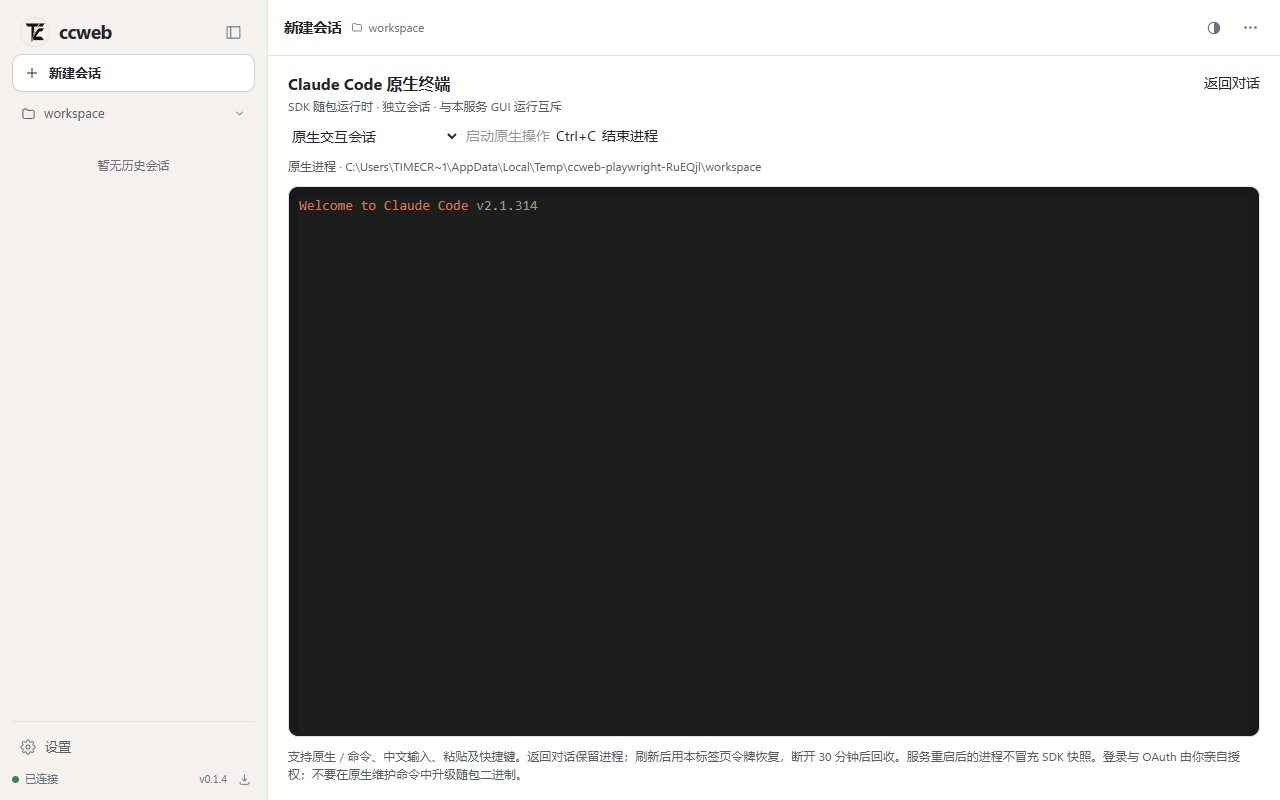
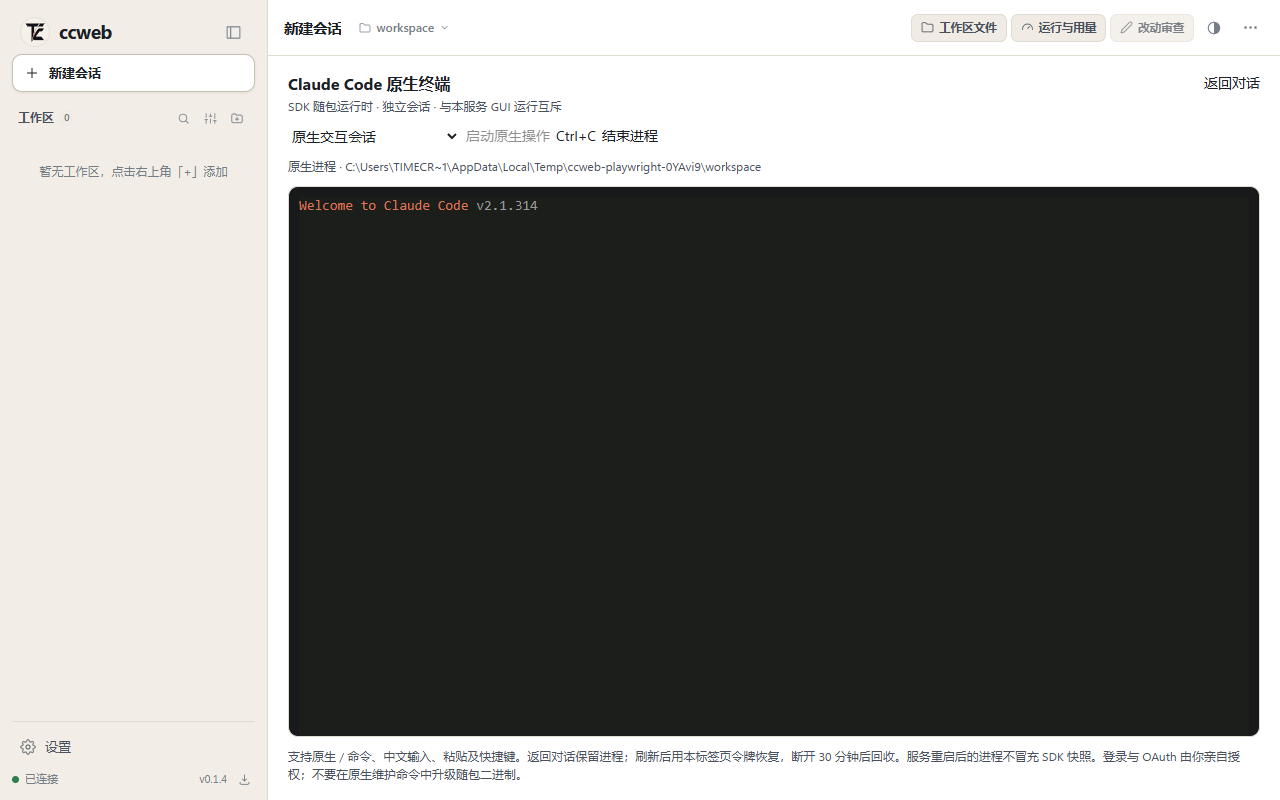
feat(ux): 优化会话滚轮防强行吸底与前端静态资源分包 / refine scroll follow behavior and bundle chunking

diff --git a/apps/web/src/components/MessageStream.tsx b/apps/web/src/components/MessageStream.tsx
@@ -36,7 +36,7 @@ export function parseHeadings(markdown: string): HeadingItem[] {
 }
 
 function StreamFooterSpacer() {
-  return <div className="stream-footer-spacer" style={{ height: 36, pointerEvents: 'none' }} aria-hidden="true" />
+  return <div className="stream-footer-spacer" style={{ height: 56, pointerEvents: 'none' }} aria-hidden="true" />
 }
 
 interface StreamProps {
@@ -58,6 +58,7 @@ export default function MessageStream({ onRegenerate, onForkFromMessage }: Strea
   const historyFocus = useStore((s) => s.historyFocus)
   const virtuoso = useRef<VirtuosoHandle>(null)
   const [atBottom, setAtBottom] = useState(true)
+  const userScrolledUp = useRef(false)
   const lastUserId = useRef<string | undefined>(undefined)
   const range = useRef({ startIndex: 0, endIndex: 0 })
   useLocale()
@@ -73,6 +74,7 @@ export default function MessageStream({ onRegenerate, onForkFromMessage }: Strea
     if (jumpedVersion.current === historyVersion) return
     jumpedVersion.current = historyVersion
     const jump = () => {
+      userScrolledUp.current = false
       setAtBottom(true)
       virtuoso.current?.scrollToIndex({ index: entryCount.current - 1, align: 'end', behavior: 'auto' })
     }
@@ -83,22 +85,25 @@ export default function MessageStream({ onRegenerate, onForkFromMessage }: Strea
   useEffect(() => {
     if (!newest || newest === lastUserId.current) return
     lastUserId.current = newest
+    userScrolledUp.current = false
     setAtBottom(true)
     const frame = requestAnimationFrame(() => virtuoso.current?.scrollToIndex({ index: entryCount.current - 1, align: 'end', behavior: 'auto' }))
     return () => cancelAnimationFrame(frame)
   }, [newest])
 
-  useEffect(() => {
-    if (entries.length === 0) return
-    if (atBottom) virtuoso.current?.scrollToIndex({ index: entries.length - 1, align: 'end', behavior: 'auto' })
-  }, [entries, busy, atBottom])
+  const handleWheel = (e: React.WheelEvent) => {
+    if (e.deltaY < 0) {
+      userScrolledUp.current = true
+      setAtBottom(false)
+    }
+  }
 
   if (entries.length === 0) {
     return <div className="flex-1" />
   }
 
   return (
-    <div className="relative flex-1" role="log" aria-label="conversation">
+    <div className="relative flex-1" role="log" aria-label="conversation" onWheel={handleWheel}>
       <Virtuoso
         key={historyVersion}
         ref={virtuoso}
@@ -106,8 +111,14 @@ export default function MessageStream({ onRegenerate, onForkFromMessage }: Strea
         className="h-full"
         components={{ Header: HistoryHeader, Footer: StreamFooterSpacer }}
         initialTopMostItemIndex={historyFocus >= 0 ? historyFocus : Math.max(0, entries.length - 1)}
-        followOutput={atBottom ? 'auto' : false}
-        atBottomStateChange={(b: boolean) => setAtBottom(b)}
+        followOutput={atBottom && !userScrolledUp.current ? 'auto' : false}
+        atBottomThreshold={32}
+        atBottomStateChange={(bottom: boolean) => {
+          setAtBottom(bottom)
+          if (bottom) {
+            userScrolledUp.current = false
+          }
+        }}
         rangeChanged={(r) => {
           range.current = { startIndex: r.startIndex, endIndex: r.endIndex }
         }}
@@ -141,8 +152,9 @@ export default function MessageStream({ onRegenerate, onForkFromMessage }: Strea
         <button
           type="button"
           onClick={() => {
-            virtuoso.current?.scrollToIndex({ index: entries.length - 1, align: 'end', behavior: 'smooth' })
+            userScrolledUp.current = false
             setAtBottom(true)
+            virtuoso.current?.scrollToIndex({ index: entries.length - 1, align: 'end', behavior: 'smooth' })
           }}
           aria-label={t('ms.toBottom')}
           className="scroll-to-bottom-pill animate-pop-in"

diff --git a/apps/web/vite.config.ts b/apps/web/vite.config.ts
@@ -23,4 +23,31 @@ export default defineConfig({
       '/healthz': apiTarget,
     },
   },
+  build: {
+    rollupOptions: {
+      output: {
+        manualChunks(id) {
+          const normalized = id.replace(/\\/g, '/')
+          if (normalized.includes('/node_modules/')) {
+            if (normalized.includes('@xterm')) {
+              return 'vendor-xterm'
+            }
+            if (
+              normalized.includes('highlight.js') ||
+              normalized.includes('rehype-highlight') ||
+              normalized.includes('lowlight')
+            ) {
+              return 'vendor-highlight'
+            }
+            if (
+              normalized.includes('/diff/') ||
+              normalized.includes('/.pnpm/diff@')
+            ) {
+              return 'vendor-diff'
+            }
+          }
+        },
+      },
+    },
+  },
 })
